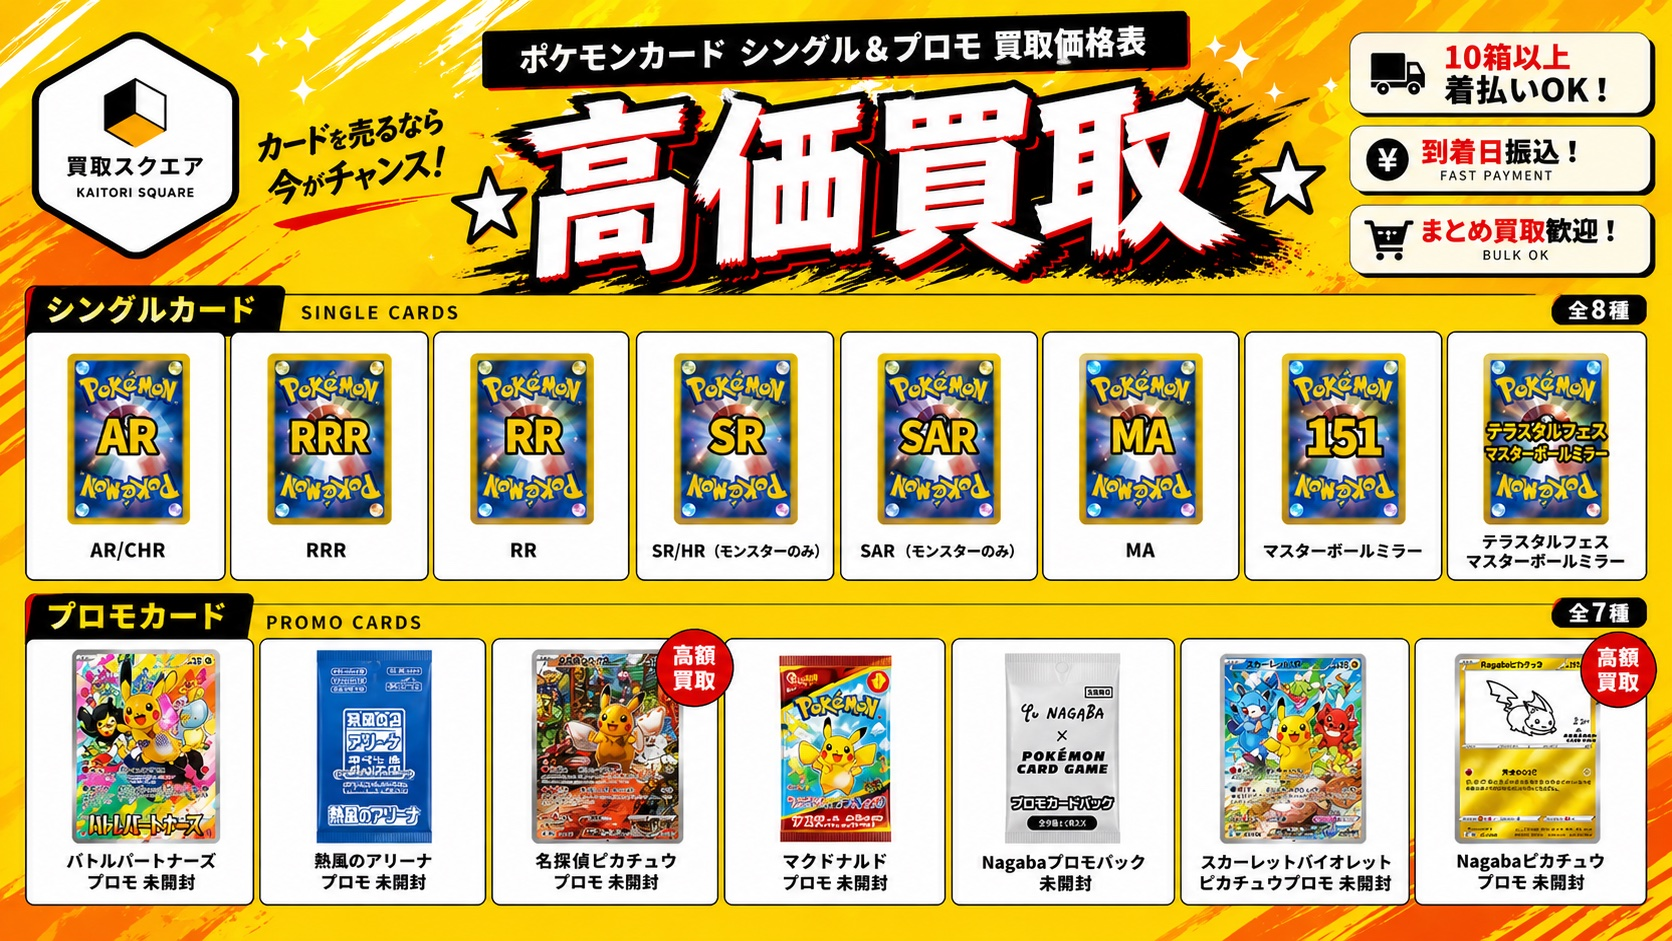
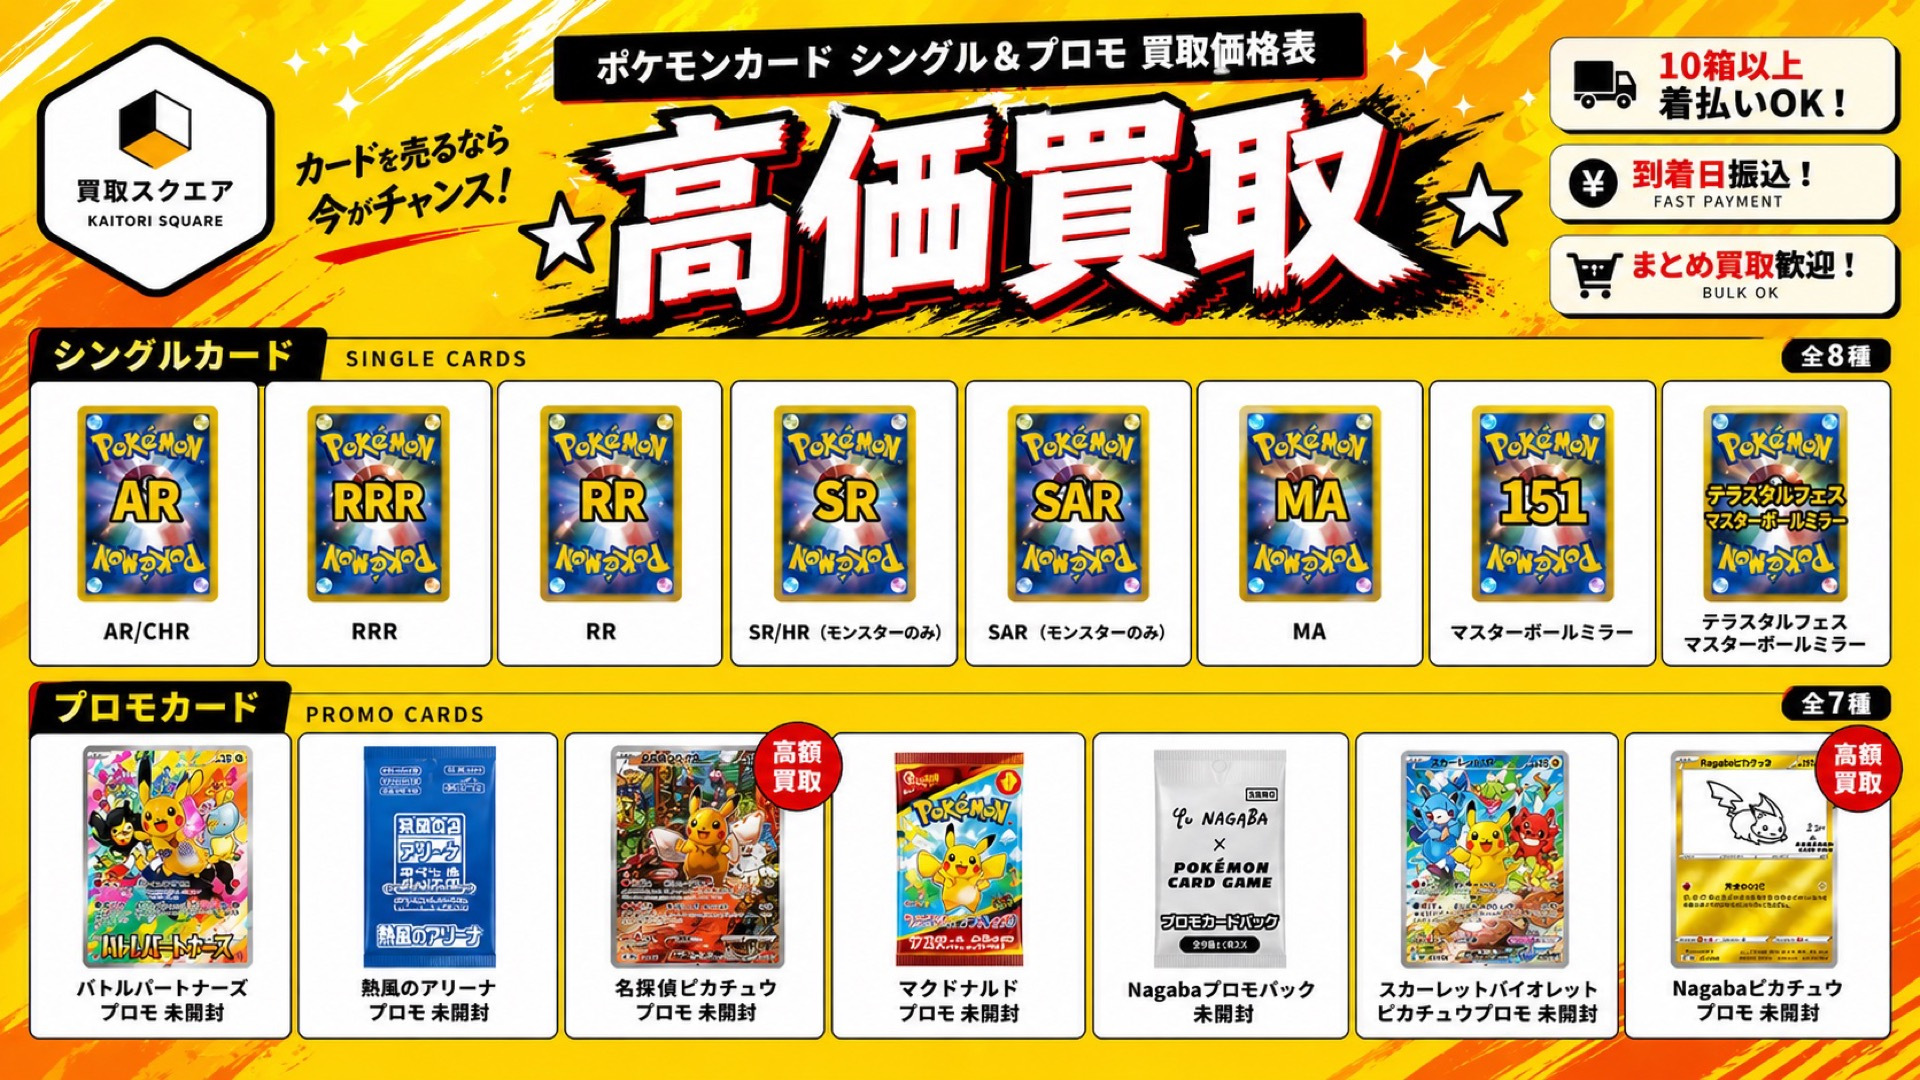
fix: 背景画像を1920x1080にリサイズ + カード位置を再調整
背景画像が1672x941で表示がずれていた問題を修正。
1920x1080にリサイズし、objectFit:coverを削除。
カード位置をリサイズ後の座標に合わせて再調整。

diff --git a/src/app/(admin)/admin/marketing/image-single/page.tsx b/src/app/(admin)/admin/marketing/image-single/page.tsx
@@ -289,23 +289,20 @@ const SinglePromoCanvas = React.forwardRef<HTMLDivElement, {
   const padX = 30
   const gridW = W - padX * 2
 
-  // Positions matched to background image layout
-  const singleTitleH = 40    // シングルカード title bar in bg
-  const promoTitleH = 40     // プロモカード title bar in bg
+  // Positions matched to 1920×1080 background image
+  const sectionTitleH = 42
 
-  const singleTitleTop = 262  // Where "シングルカード" bar starts in bg
-  const singleCardTop = singleTitleTop + singleTitleH + 4
-  const singleCardBottom = 592
+  const singleCardTop = 345   // カード描画開始Y (セクションタイトル下)
+  const singleCardBottom = 628
 
-  const promoTitleTop = 598   // Where "プロモカード" bar starts in bg
-  const promoCardTop = promoTitleTop + promoTitleH + 4
-  const promoCardBottom = 1036
+  const promoCardTop = 680
+  const promoCardBottom = 1032
 
-  const singleTop = singleTitleTop
-  const singleSectionH = singleCardBottom - singleTitleTop
-  const promoTop = promoTitleTop
-  const promoSectionH = promoCardBottom - promoTitleTop
-  const sectionTitleH = singleTitleH
+  // For SectionRenderer compatibility
+  const singleTop = singleCardTop - sectionTitleH - 4
+  const singleSectionH = singleCardBottom - singleTop
+  const promoTop = promoCardTop - sectionTitleH - 4
+  const promoSectionH = promoCardBottom - promoTop
 
   return (
     <div
@@ -323,7 +320,7 @@ const SinglePromoCanvas = React.forwardRef<HTMLDivElement, {
       <img
         src="/assets/single-promo-bg.jpg"
         alt=""
-        style={{ position: 'absolute', top: 0, left: 0, width: W, height: H, objectFit: 'cover', zIndex: 0 }}
+        style={{ position: 'absolute', top: 0, left: 0, width: W, height: H, zIndex: 0 }}
         crossOrigin="anonymous"
       />
 
